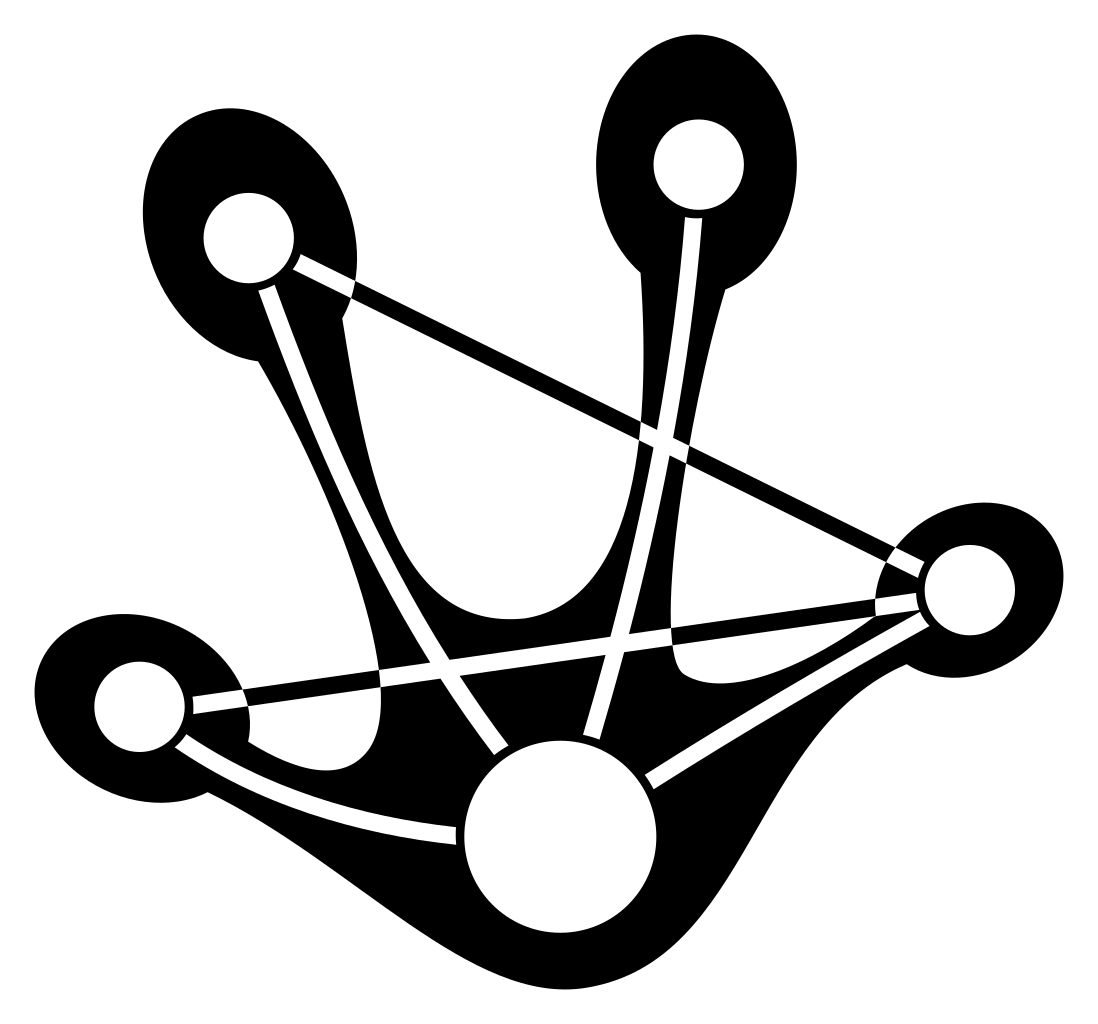
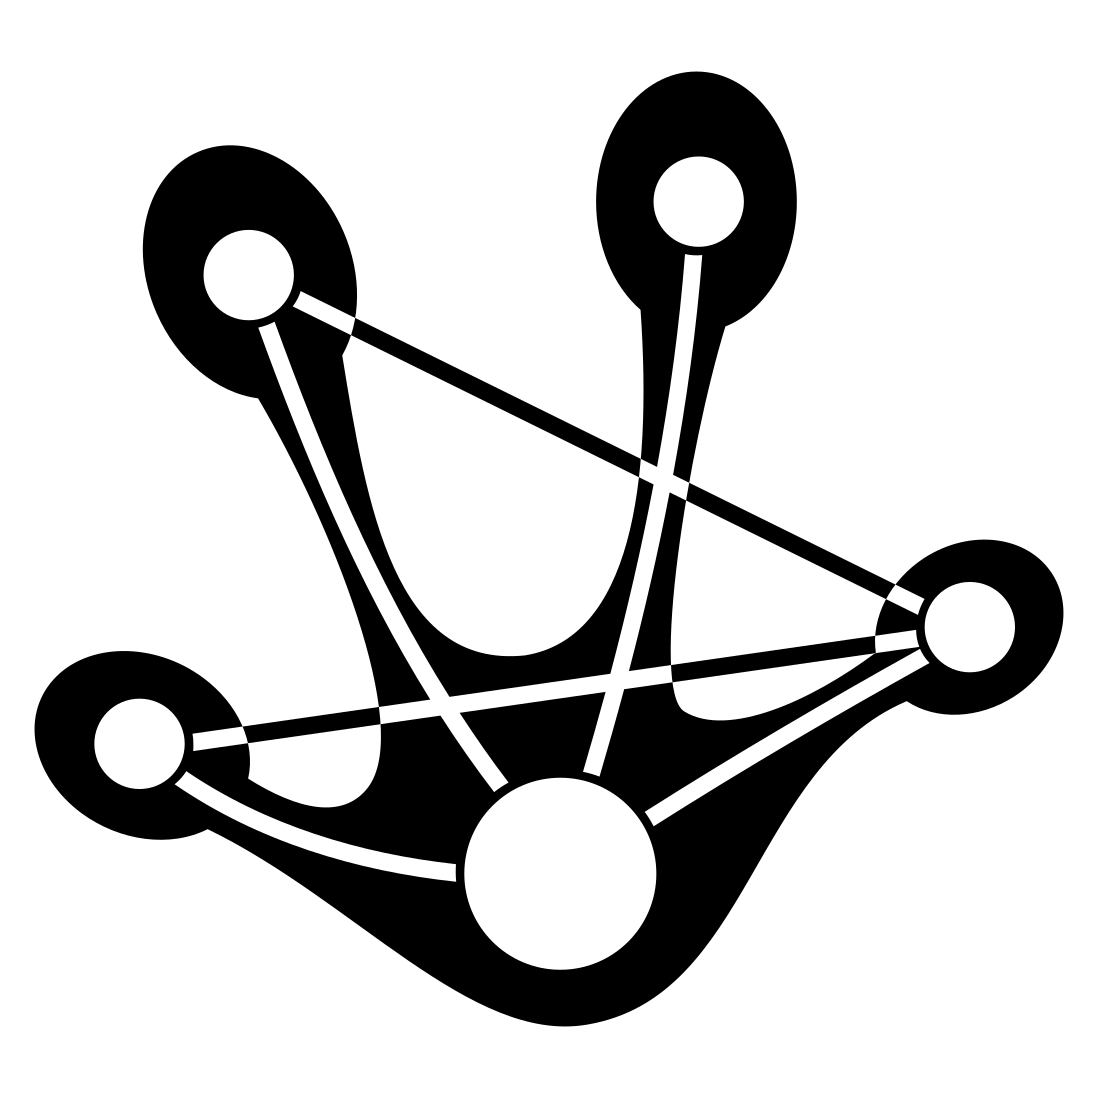
Make the CRoG-square-*.png images actually square.
Included documentation in the art README on how this was done.

diff --git a/art/README.md b/art/README.md
@@ -33,7 +33,20 @@ horizontal format.
 ## Creating Graphics
 
 The CRoG logos were created as vector graphics in Inkscape and rasterized to PNG
-with Inkscape as well. The PNG versions were then [optimized](https://blog.codinghorror.com/zopfli-optimization-literally-free-bandwidth/)
+with Inkscape as well. The rasterized `*-square` versions were made actually
+square by adding transparent padding with this ImageMagick command
+([reference](https://imagemagick.org/Usage/thumbnails/#pad)):
+
+```sh
+for f in *square*.png
+do
+    magick "$f" -virtual-pixel none \
+        -set option:distort:viewport "%[fx:max(w, h)]x%[fx:max(w, h)]-%[fx:max((h-w)/2, 0)]-%[fx:max((w-h)/2, 0)]" \
+        -filter point -distort ScaleRotateTranslate 0 +repage "$f"
+done
+```
+
+The PNG versions were then [optimized](https://blog.codinghorror.com/zopfli-optimization-literally-free-bandwidth/)
 using `optipng` and `advdef`:
 
 ```sh
